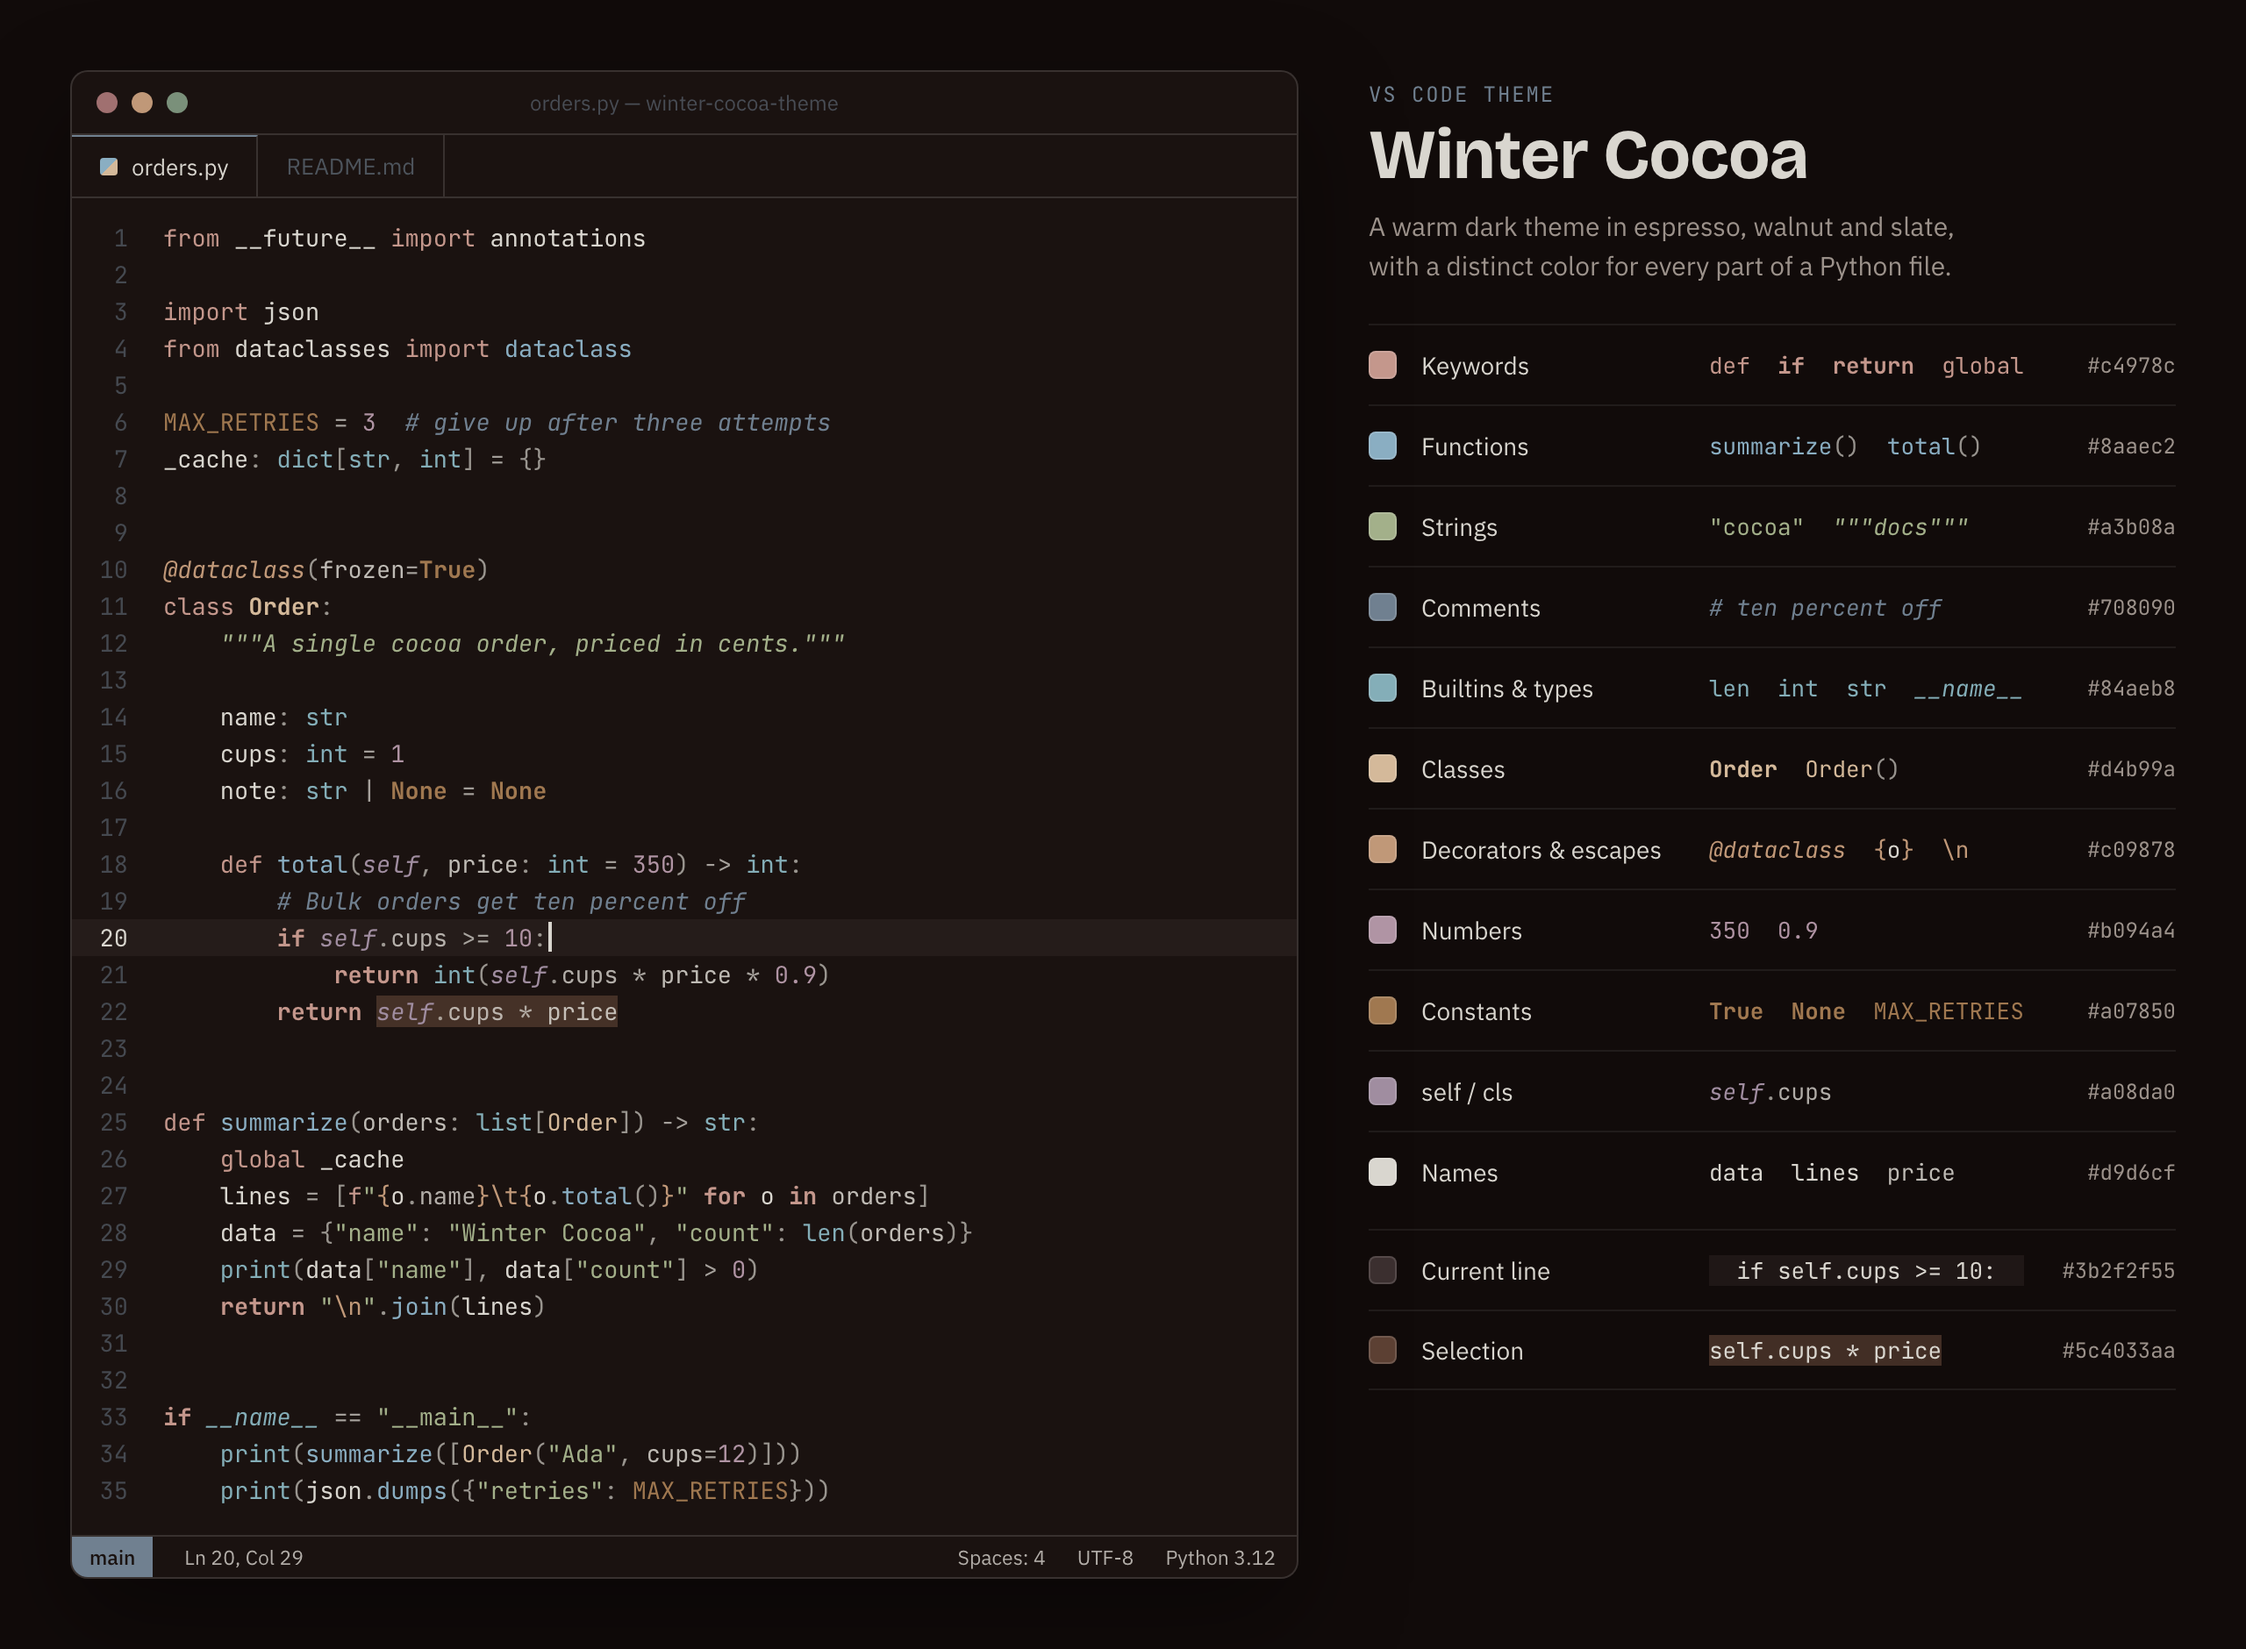
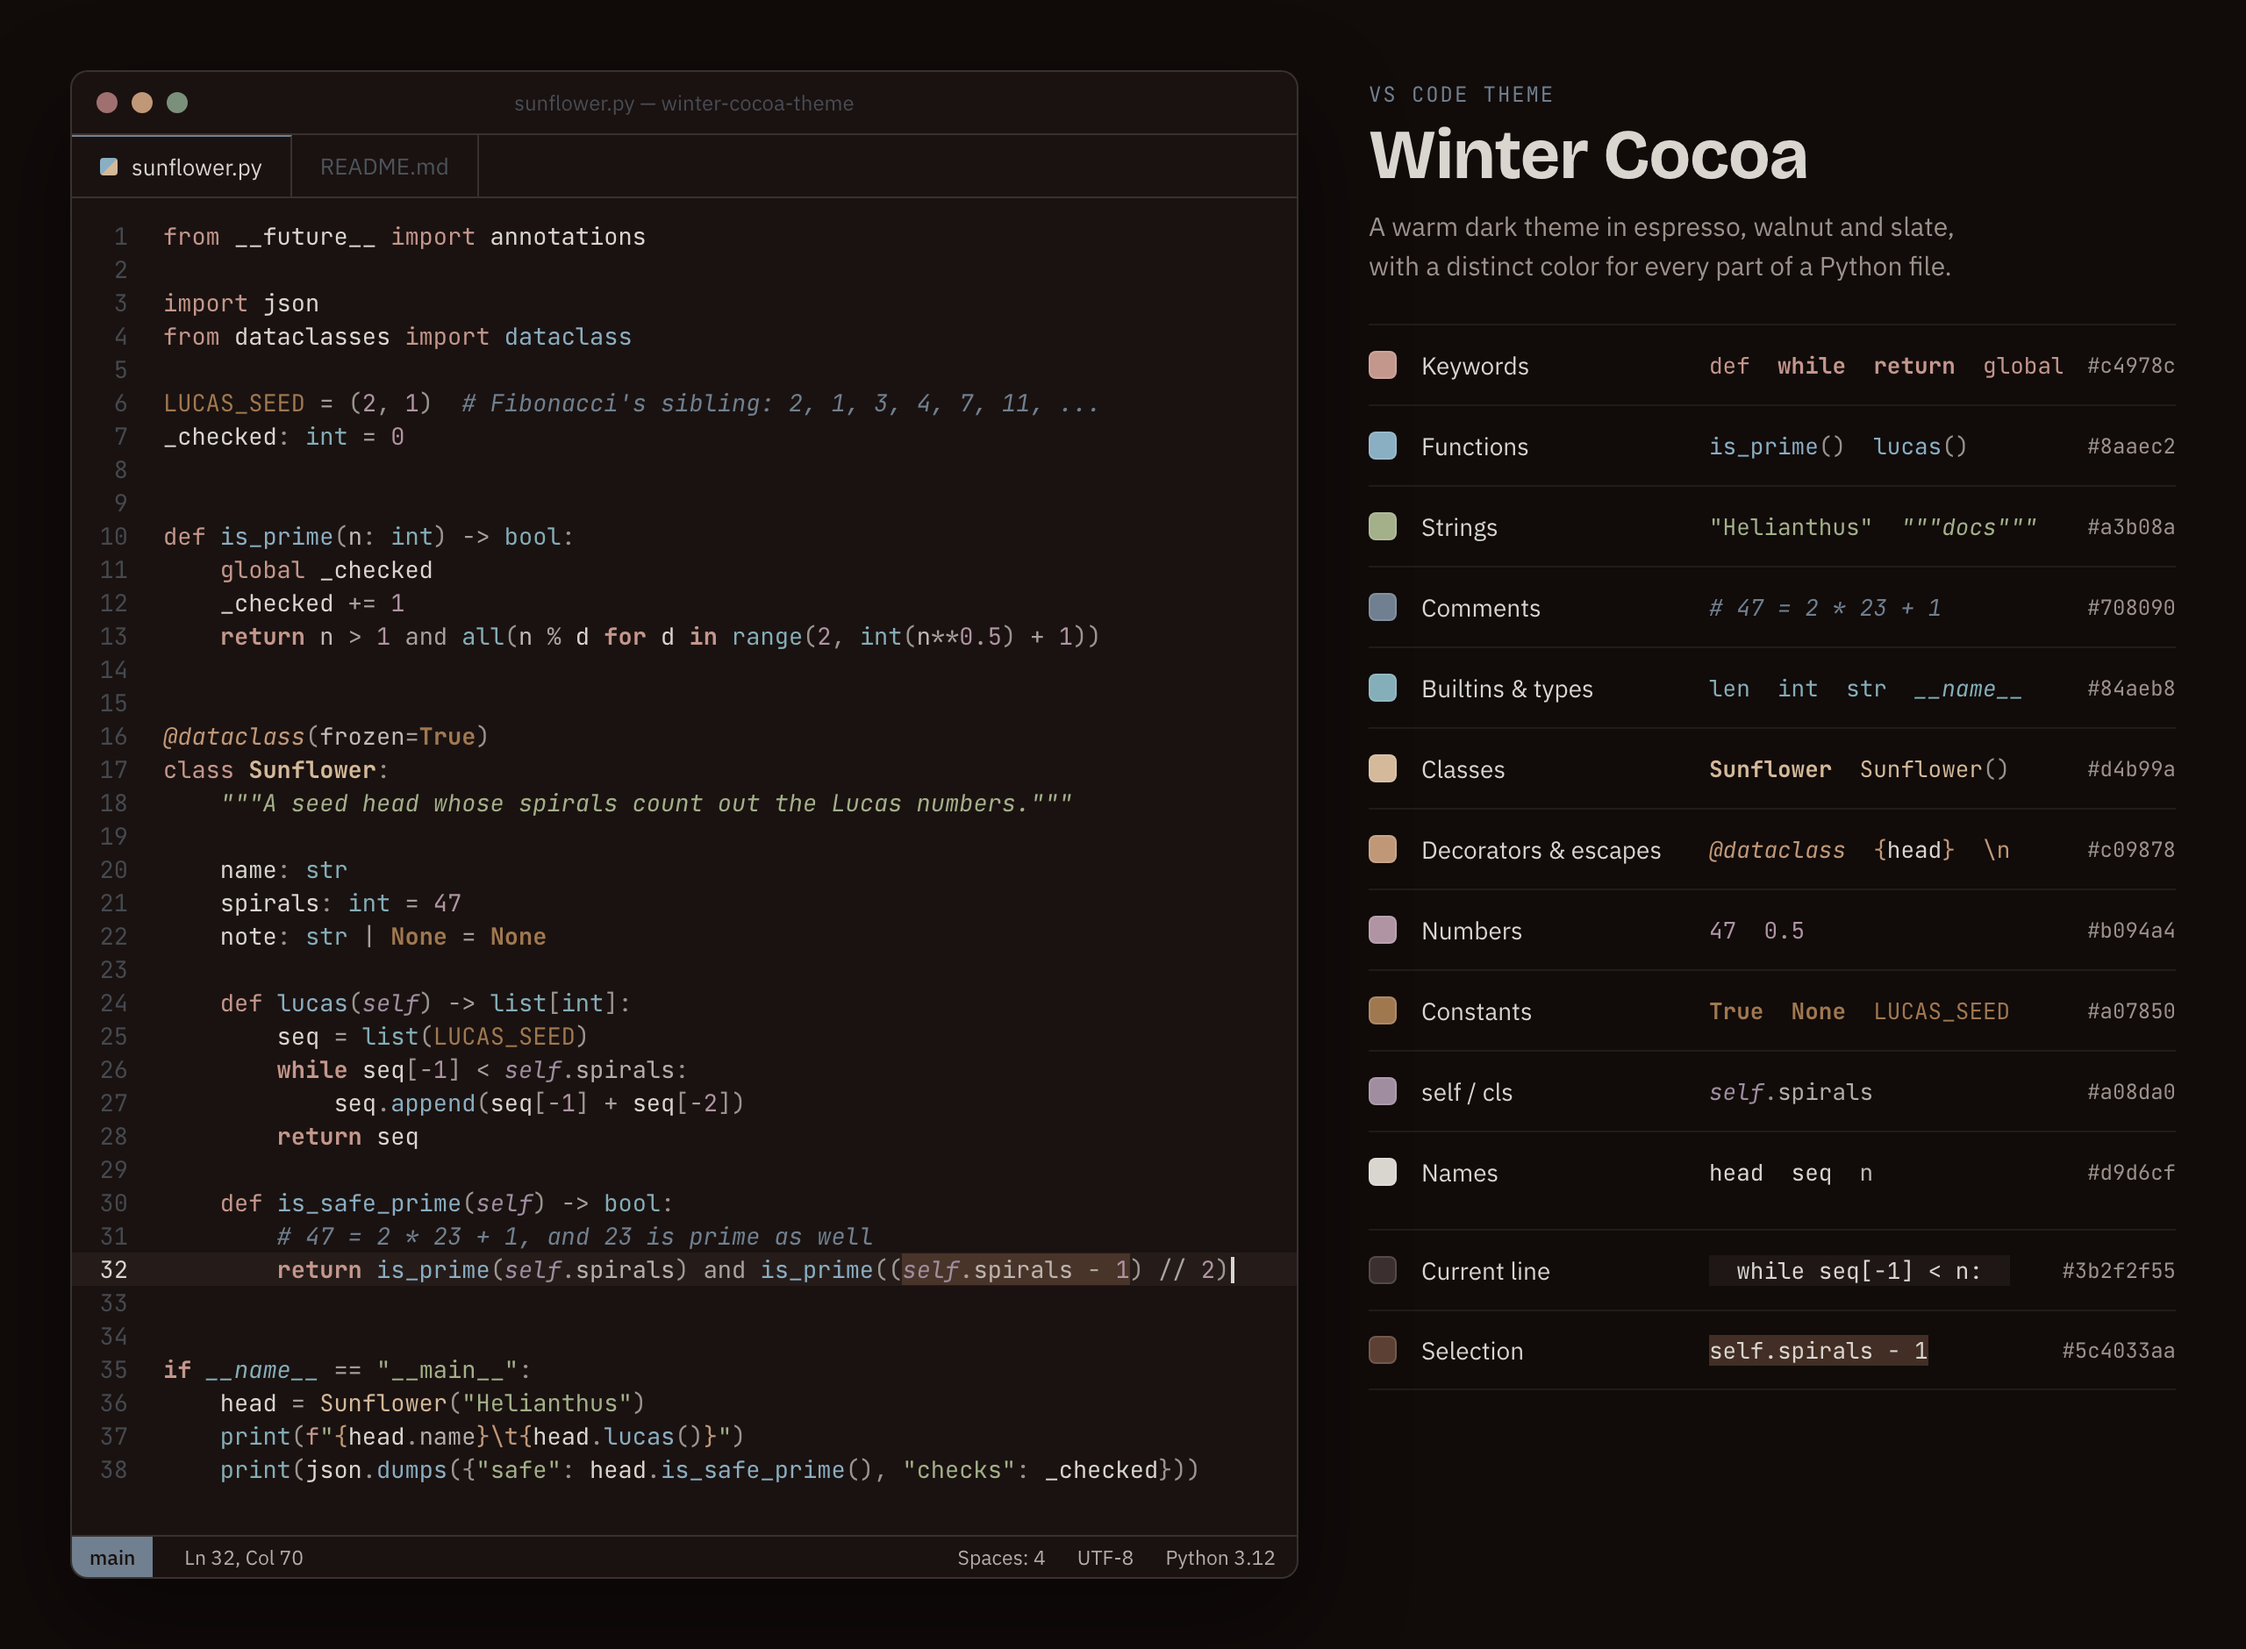
Showcase: show sunflower.py as the example

diff --git a/scripts/showcase/showcase.html b/scripts/showcase/showcase.html
@@ -1,6 +1,6 @@
 <!doctype html>
 <!--
-  Source for images/showcase.png. The code mirrors examples/orders.py, hand-tokenized
+  Source for images/showcase.png. The code mirrors examples/sunflower.py, hand-tokenized
   with the colors Winter Cocoa gives each scope (Pylance semantic colors where they win).
   Rebuild with: scripts/render_showcase.sh
 -->
@@ -67,7 +67,7 @@
     padding-block: 12px;
     font-family: var(--font-code);
     font-size: 13.5px;
-    line-height: 21px;
+    line-height: 19px;
     font-variant-ligatures: none;
   }
   .ln { display: flex; white-space: pre; }
@@ -75,7 +75,7 @@
   .gutter { flex: none; width: 52px; padding-right: 20px; text-align: right; color: #70809080; }
   .ln.cur .gutter { color: #d9d6cf; }
   .sel { background: #5c4033aa; }
-  .caret { display: inline-block; width: 2px; height: 17px; margin-left: 1px; vertical-align: -3px; background: #d9d6cf; }
+  .caret { display: inline-block; width: 2px; height: 15px; margin-left: 1px; vertical-align: -3px; background: #d9d6cf; }
 
   .status {
     display: flex;
@@ -118,16 +118,16 @@
       <span class="dot" style="background:#a07070"></span>
       <span class="dot" style="background:#c09878"></span>
       <span class="dot" style="background:#7a907a"></span>
-      <span class="name">orders.py — winter-cocoa-theme</span>
+      <span class="name">sunflower.py — winter-cocoa-theme</span>
     </div>
     <div class="tabs">
-      <span class="tab active"><span class="py"></span>orders.py</span>
+      <span class="tab active"><span class="py"></span>sunflower.py</span>
       <span class="tab inactive">README.md</span>
     </div>
     <div class="code" id="code"></div>
     <div class="status">
       <span class="remote">main</span>
-      <span>Ln 20, Col 29</span>
+      <span>Ln 32, Col 70</span>
       <div class="right"><span>Spaces: 4</span><span>UTF-8</span><span>Python 3.12</span></div>
     </div>
   </section>
@@ -161,52 +161,55 @@ const SRC = [
   "«kw:import» «mod:json»",
   "«kw:from» «mod:dataclasses» «kw:import» «fn:dataclass»",
   "",
-  "«caps:MAX_RETRIES» «op:=» «num:3»  «cmt:# give up after three attempts»",
-  "_cache«punc::» «type:dict»«punc:[»«type:str»«punc:,» «type:int»«punc:]» «op:=» «punc:{}»",
+  "«caps:LUCAS_SEED» «op:=» «punc:(»«num:2»«punc:,» «num:1»«punc:)»  «cmt:# Fibonacci's sibling: 2, 1, 3, 4, 7, 11, ...»",
+  "_checked«punc::» «type:int» «op:=» «num:0»",
+  "",
+  "",
+  "«stor:def» «fn:is_prime»«punc:(»«param:n»«punc::» «type:int»«punc:)» «op:->» «type:bool»«punc::»",
+  "    «glob:global» _checked",
+  "    _checked «op:+=» «num:1»",
+  "    «ctrl:return» «param:n» «op:>» «num:1» «op:and» «bi:all»«punc:(»«param:n» «op:%» d «ctrl:for» d «ctrl:in» «bi:range»«punc:(»«num:2»«punc:,» «type:int»«punc:(»«param:n»«op:**»«num:0.5»«punc:)» «op:+» «num:1»«punc:))»",
   "",
   "",
   "«dec:@dataclass»«punc:(»«param:frozen»«op:=»«const:True»«punc:)»",
-  "«stor:class» «clsdef:Order»«punc::»",
-  "    «doc:\"\"\"A single cocoa order, priced in cents.\"\"\"»",
+  "«stor:class» «clsdef:Sunflower»«punc::»",
+  "    «doc:\"\"\"A seed head whose spirals count out the Lucas numbers.\"\"\"»",
   "",
   "    name«punc::» «type:str»",
-  "    cups«punc::» «type:int» «op:=» «num:1»",
+  "    spirals«punc::» «type:int» «op:=» «num:47»",
   "    note«punc::» «type:str» «op:|» «const:None» «op:=» «const:None»",
   "",
-  "    «stor:def» «fn:total»«punc:(»«self:self»«punc:,» «param:price»«punc::» «type:int» «op:=» «num:350»«punc:)» «op:->» «type:int»«punc::»",
-  "        «cmt:# Bulk orders get ten percent off»",
-  "        «ctrl:if» «self:self»«punc:.»«attr:cups» «op:>=» «num:10»«punc::»",
-  "            «ctrl:return» «type:int»«punc:(»«self:self»«punc:.»«attr:cups» «op:*» «param:price» «op:*» «num:0.9»«punc:)»",
-  "        «ctrl:return» «!self:self»«!punc:.»«!attr:cups»«!op: * »«!param:price»",
+  "    «stor:def» «fn:lucas»«punc:(»«self:self»«punc:)» «op:->» «type:list»«punc:[»«type:int»«punc:]»«punc::»",
+  "        seq «op:=» «bi:list»«punc:(»«caps:LUCAS_SEED»«punc:)»",
+  "        «ctrl:while» seq«punc:[»«op:-»«num:1»«punc:]» «op:<» «self:self»«punc:.»«attr:spirals»«punc::»",
+  "            seq«punc:.»«fn:append»«punc:(»seq«punc:[»«op:-»«num:1»«punc:]» «op:+» seq«punc:[»«op:-»«num:2»«punc:])»",
+  "        «ctrl:return» seq",
   "",
-  "",
-  "«stor:def» «fn:summarize»«punc:(»«param:orders»«punc::» «type:list»«punc:[»«cls:Order»«punc:])» «op:->» «type:str»«punc::»",
-  "    «glob:global» _cache",
-  "    lines «op:=» «punc:[»«fpre:f»«str:\"»«fb:{»o«punc:.»«attr:name»«fb:}»«esc:\\t»«fb:{»o«punc:.»«fn:total»«punc:()»«fb:}»«str:\"» «ctrl:for» o «ctrl:in» «param:orders»«punc:]»",
-  "    data «op:=» «punc:{»«str:\"name\"»«punc::» «str:\"Winter Cocoa\"»«punc:,» «str:\"count\"»«punc::» «bi:len»«punc:(»«param:orders»«punc:)}»",
-  "    «bi:print»«punc:(»data«punc:[»«str:\"name\"»«punc:],» data«punc:[»«str:\"count\"»«punc:]» «op:>» «num:0»«punc:)»",
-  "    «ctrl:return» «str:\"»«esc:\\n»«str:\"»«punc:.»«fn:join»«punc:(»lines«punc:)»",
+  "    «stor:def» «fn:is_safe_prime»«punc:(»«self:self»«punc:)» «op:->» «type:bool»«punc::»",
+  "        «cmt:# 47 = 2 * 23 + 1, and 23 is prime as well»",
+  "        «ctrl:return» «fn:is_prime»«punc:(»«self:self»«punc:.»«attr:spirals»«punc:)» «op:and» «fn:is_prime»«punc:((»«!self:self»«!punc:.»«!attr:spirals»«!op: - »«!num:1»«punc:)» «op:/»«op:/» «num:2»«punc:)»",
   "",
   "",
   "«ctrl:if» «magic:__name__» «op:==» «str:\"__main__\"»«punc::»",
-  "    «bi:print»«punc:(»«fn:summarize»«punc:([»«cls:Order»«punc:(»«str:\"Ada\"»«punc:,» «param:cups»«op:=»«num:12»«punc:)]))»",
-  "    «bi:print»«punc:(»«mod:json»«punc:.»«fn:dumps»«punc:({»«str:\"retries\"»«punc::» «caps:MAX_RETRIES»«punc:}))»",
+  "    head «op:=» «cls:Sunflower»«punc:(»«str:\"Helianthus\"»«punc:)»",
+  "    «bi:print»«punc:(»«fpre:f»«str:\"»«fb:{»head«punc:.»«attr:name»«fb:}»«esc:\\t»«fb:{»head«punc:.»«fn:lucas»«punc:()»«fb:}»«str:\"»«punc:)»",
+  "    «bi:print»«punc:(»«mod:json»«punc:.»«fn:dumps»«punc:({»«str:\"safe\"»«punc::» head«punc:.»«fn:is_safe_prime»«punc:(),» «str:\"checks\"»«punc::» _checked«punc:}))»",
 ];
-const CURSOR_LINE = 20;
+const CURSOR_LINE = 32;
 
 // role, chip color, sample tokens (same markup), hex label
 const LEGEND = [
-  ["Keywords", "#c4978c", "«stor:def»  «ctrl:if»  «ctrl:return»  «glob:global»", "#c4978c"],
-  ["Functions", "#8aaec2", "«fn:summarize»«punc:()»  «fn:total»«punc:()»", "#8aaec2"],
-  ["Strings", "#a3b08a", "«str:\"cocoa\"»  «doc:\"\"\"docs\"\"\"»", "#a3b08a"],
-  ["Comments", "#708090", "«cmt:# ten percent off»", "#708090"],
+  ["Keywords", "#c4978c", "«stor:def»  «ctrl:while»  «ctrl:return»  «glob:global»", "#c4978c"],
+  ["Functions", "#8aaec2", "«fn:is_prime»«punc:()»  «fn:lucas»«punc:()»", "#8aaec2"],
+  ["Strings", "#a3b08a", "«str:\"Helianthus\"»  «doc:\"\"\"docs\"\"\"»", "#a3b08a"],
+  ["Comments", "#708090", "«cmt:# 47 = 2 * 23 + 1»", "#708090"],
   ["Builtins & types", "#84aeb8", "«bi:len»  «type:int»  «type:str»  «magic:__name__»", "#84aeb8"],
-  ["Classes", "#d4b99a", "«clsdef:Order»  «cls:Order»«punc:()»", "#d4b99a"],
-  ["Decorators & escapes", "#c09878", "«dec:@dataclass»  «fb:{»o«fb:}»  «esc:\\n»", "#c09878"],
-  ["Numbers", "#b094a4", "«num:350»  «num:0.9»", "#b094a4"],
-  ["Constants", "#a07850", "«const:True»  «const:None»  «caps:MAX_RETRIES»", "#a07850"],
-  ["self / cls", "#a08da0", "«self:self»«punc:.»«attr:cups»", "#a08da0"],
-  ["Names", "#d9d6cf", "data  lines  «param:price»", "#d9d6cf"],
+  ["Classes", "#d4b99a", "«clsdef:Sunflower»  «cls:Sunflower»«punc:()»", "#d4b99a"],
+  ["Decorators & escapes", "#c09878", "«dec:@dataclass»  «fb:{»head«fb:}»  «esc:\\n»", "#c09878"],
+  ["Numbers", "#b094a4", "«num:47»  «num:0.5»", "#b094a4"],
+  ["Constants", "#a07850", "«const:True»  «const:None»  «caps:LUCAS_SEED»", "#a07850"],
+  ["self / cls", "#a08da0", "«self:self»«punc:.»«attr:spirals»", "#a08da0"],
+  ["Names", "#d9d6cf", "head  seq  «param:n»", "#d9d6cf"],
 ];
 const SURFACES = [
   ["Current line", "#3b2f2f", "#3b2f2f55"],
@@ -264,7 +267,7 @@ SURFACES.forEach(([role, chip, hex], i) => {
   const row = el("div", "row" + (i === 0 ? " group" : ""));
   const c = el("span", "chip"); c.style.background = chip;
   const s = el("span", "sample");
-  const bar = el("span", null, i === 0 ? "  if self.cups >= 10:  " : "self.cups * price");
+  const bar = el("span", null, i === 0 ? "  while seq[-1] < n:  " : "self.spirals - 1");
   bar.style.background = hex;
   bar.style.color = "#d9d6cf";
   s.append(bar);
